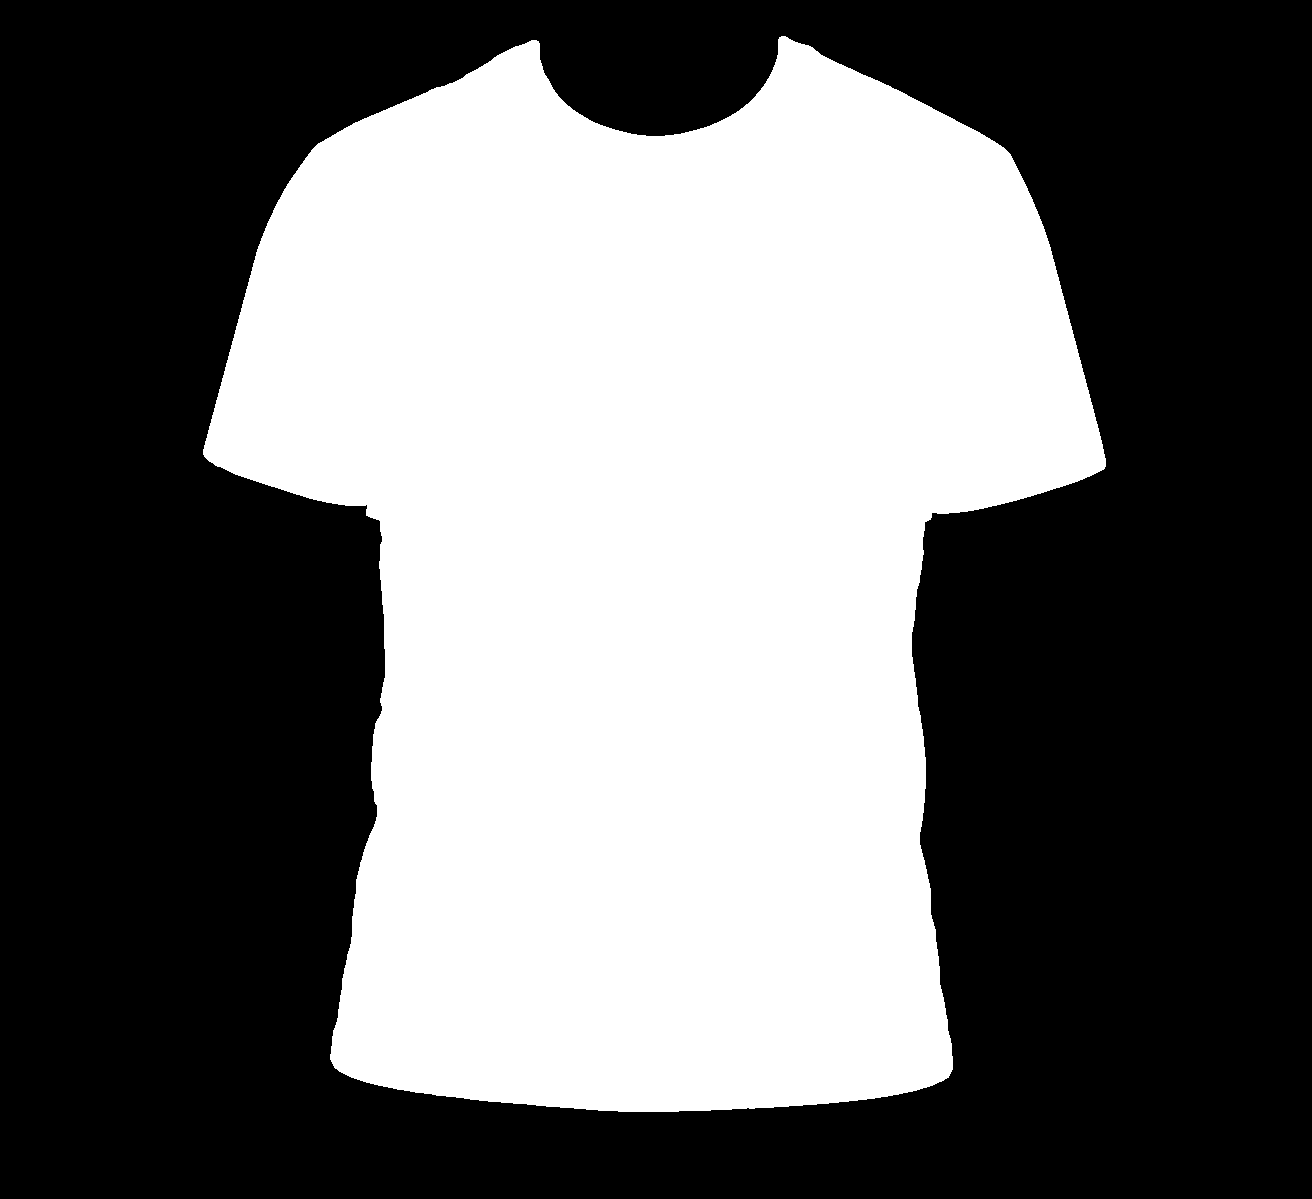
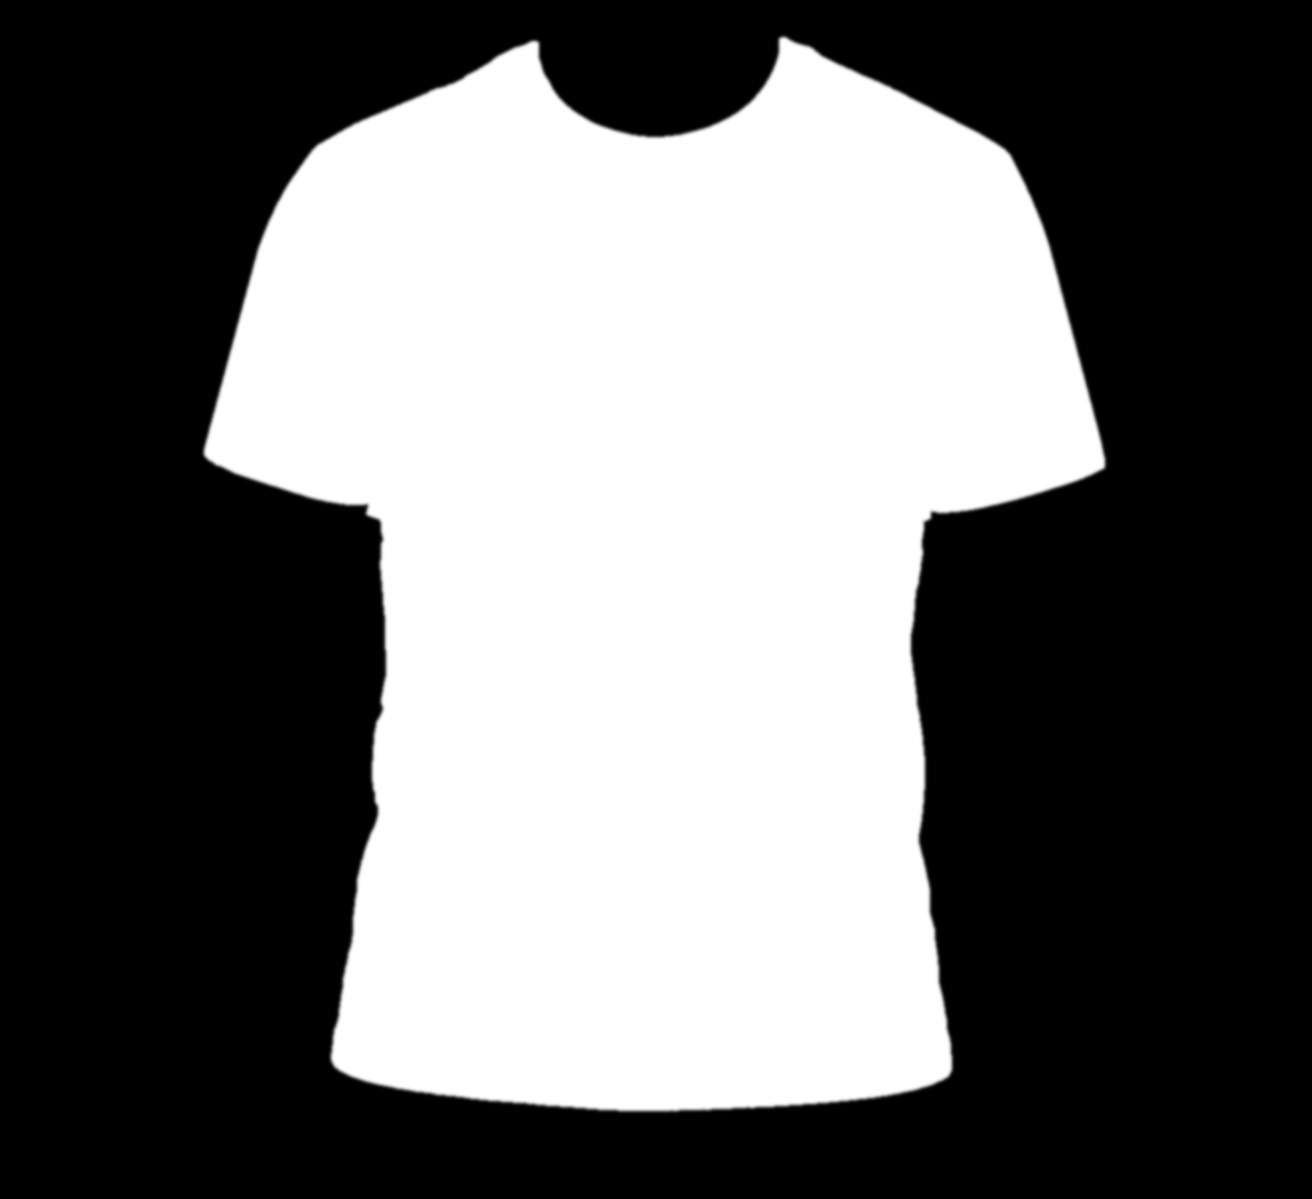
fix(mockups): bordes suaves de prenda y solo plantillas con modelo
La preparación conserva el antialias de la máscara y calcula sombreado y
desplazamiento solo con el interior de la prenda, extendiéndolos hacia el
borde: desaparecen los escalones, el perfil oscuro y el halo blanco al teñir.
Se eliminan las plantillas dibujadas por código (tee-flat-*) y su script.

diff --git a/backend/src/designfabric/core/imaging/mockup/prepare.py b/backend/src/designfabric/core/imaging/mockup/prepare.py
@@ -182,7 +182,9 @@ def _normalize_mask(mask: Image.Image | np.ndarray, size: tuple[int, int]) -> np
             mask_array = np.clip(mask_array, 0, 255).astype(np.uint8)
     if mask_array.shape != (size[1], size[0]):
         raise ValueError(f"La máscara debe medir {size[0]}×{size[1]} píxeles")
-    return np.where(mask_array > 0, 255, 0).astype(np.uint8)
+    # Se conserva el borde suave (antialias): binarizarlo deja escalones visibles y
+    # tiñe el anillo de piel/fondo que rodea la prenda.
+    return mask_array.astype(np.uint8)
 
 
 def _largest_component(mask: np.ndarray) -> np.ndarray:
@@ -196,8 +198,15 @@ def _largest_component(mask: np.ndarray) -> np.ndarray:
 
 def _derive_maps(gray: np.ndarray, mask: np.ndarray) -> tuple[np.ndarray, np.ndarray]:
     luminance = gray.astype(np.float32)
-    active = mask > 0
-    median = float(np.median(luminance[active]))
+    active = mask >= 128
+    if not np.any(active):
+        active = mask > 0
+    # Los píxeles del contorno mezclan tela con piel/fondo: los mapas se calculan
+    # solo con el interior y se extienden hacia el borde (convolución normalizada).
+    interior = cv2.erode(active.astype(np.uint8), np.ones((7, 7), np.uint8)) > 0
+    if not np.any(interior):
+        interior = active
+    median = float(np.median(luminance[interior]))
     if not math.isfinite(median) or median <= 0:
         median = 0.0
 
@@ -205,20 +214,38 @@ def _derive_maps(gray: np.ndarray, mask: np.ndarray) -> tuple[np.ndarray, np.nda
     side = min(width, height)
     shading_sigma = max(0.8, side * 0.002)
     shading = luminance * (128.0 / median) if median > 0 else np.full_like(luminance, 128.0)
-    shading[~active] = 128.0
-    shading = _gaussian_blur(shading, shading_sigma)
+    shading = _fill_from_interior(shading, interior, shading_sigma, max(4.0, side * 0.004))
     shading_median = float(np.median(shading[active]))
     if shading_median > 0:
         shading[active] *= 128.0 / shading_median
-    shading[~active] = 128.0
+    shading[mask == 0] = 128.0
 
     displacement_sigma = max(1.0, side * 0.01)
-    displacement = _gaussian_blur(luminance, displacement_sigma)
+    displacement = _fill_from_interior(luminance, interior, displacement_sigma, displacement_sigma)
     displacement[active] += 128.0 - float(np.mean(displacement[active]))
     displacement[~active] = 128.0
     for _ in range(2):
         displacement[active] += 128.0 - float(np.mean(displacement[active]))
     return _to_uint8(shading), _to_uint8(displacement)
+
+
+def _fill_from_interior(
+    values: np.ndarray, interior: np.ndarray, sigma: float, reach_sigma: float
+) -> np.ndarray:
+    """Suaviza `values` usando solo `interior` y extrapola hacia el contorno.
+
+    Dentro del interior equivale a un blur de `sigma`; fuera, cada píxel toma la
+    media ponderada del interior cercano (alcance ~3·`reach_sigma`).
+    """
+    weight = interior.astype(np.float32)
+    smooth = _gaussian_blur(values * weight, sigma) / np.maximum(
+        _gaussian_blur(weight, sigma), 1e-6
+    )
+    near = _gaussian_blur(values * weight, reach_sigma) / np.maximum(
+        _gaussian_blur(weight, reach_sigma), 1e-6
+    )
+    covered = _gaussian_blur(weight, sigma) > 0.5
+    return np.where(interior | covered, smooth, near).astype(np.float32)
 
 
 def _gaussian_blur(image: np.ndarray, sigma: float) -> np.ndarray:

diff --git a/backend/scripts/make_model_mockups.py b/backend/scripts/make_model_mockups.py
@@ -15,7 +15,6 @@ from __future__ import annotations
 
 import argparse
 import os
-import sys
 from dataclasses import dataclass
 from io import BytesIO
 from pathlib import Path
@@ -24,11 +23,17 @@ import cv2
 import numpy as np
 from PIL import Image
 
-sys.path.insert(0, str(Path(__file__).resolve().parent))
-from make_default_mockups import GARMENT_COLORS  # noqa: E402
+from designfabric.core.imaging.mockup.prepare import save_template
 
-from designfabric.core.imaging.mockup.prepare import save_template  # noqa: E402
-
+GARMENT_COLORS = {
+    "blanco": "#FFFFFF",
+    "negro": "#1A1A1A",
+    "gris": "#9A9A9A",
+    "azul marino": "#1F2A44",
+    "rojo": "#B3202A",
+    "verde": "#2F5D3A",
+    "arena": "#D8C8A8",
+}
 OUT_DIR = Path(__file__).resolve().parents[1] / "data" / "mockup_templates"
 IMAGE_MODEL = "openai/gpt-image-2.5-sunburst"
 PROMPT = (
@@ -140,7 +145,10 @@ def shirt_mask(rgb: np.ndarray, spec: ModelSpec) -> np.ndarray:
         m = cv2.morphologyEx(m, cv2.MORPH_CLOSE, cv2.getStructuringElement(cv2.MORPH_ELLIPSE, (15, 15)))
         m[sat > 45] = 0
 
-    return cv2.GaussianBlur(m, (0, 0), 1.0)
+    # Cubre el margen blanco de 1–2 px que deja la segmentación; si quedara fuera,
+    # se vería como un hilo claro al teñir.
+    m = cv2.dilate(m, cv2.getStructuringElement(cv2.MORPH_ELLIPSE, (5, 5)))
+    return cv2.GaussianBlur(m, (0, 0), 1.6)
 
 
 def build(spec: ModelSpec, photo: Image.Image) -> None:

diff --git a/backend/tests/core/imaging/mockup/test_prepare.py b/backend/tests/core/imaging/mockup/test_prepare.py
@@ -6,7 +6,7 @@ from pathlib import Path
 
 import numpy as np
 import pytest
-from PIL import Image
+from PIL import Image, ImageFilter
 
 from designfabric.core.imaging.background_removal_strategies import RemovalModelPaths
 from designfabric.core.imaging.mockup.prepare import prepare_template, save_template
@@ -122,3 +122,21 @@ def test_rechaza_mascara_de_tamano_incorrecto() -> None:
 
     with pytest.raises(ValueError, match="debe medir"):
         prepare_template(_foto_sintetica(), wrong_size, model_paths=RemovalModelPaths())
+
+
+def test_conserva_borde_suave_y_el_contorno_no_oscurece_el_sombreado() -> None:
+    """Regresión: la máscara se binarizaba (bordes dentados) y el sombreado del
+    contorno mezclaba la piel/fondo vecinos, dibujando un perfil oscuro al teñir."""
+    photo = np.full((120, 120, 3), 60, np.uint8)  # «piel» oscura alrededor
+    photo[30:90, 30:90] = 235  # tela blanca
+    mask = np.zeros((120, 120), np.uint8)
+    mask[30:90, 30:90] = 255
+    mask = np.asarray(Image.fromarray(mask).filter(ImageFilter.GaussianBlur(1.5)))
+
+    prepared = prepare_template(Image.fromarray(photo), mask)
+
+    out_mask = np.asarray(prepared.garment_mask)
+    assert ((out_mask > 0) & (out_mask < 255)).any()
+    shading = np.asarray(prepared.shading).astype(int)
+    rim = (out_mask >= 128) & (out_mask < 250)
+    assert abs(int(np.median(shading[rim])) - 128) <= 4

diff --git a/backend/tests/core/imaging/mockup/test_bundled_templates.py b/backend/tests/core/imaging/mockup/test_bundled_templates.py
@@ -16,7 +16,7 @@ TEMPLATE_DIRS = sorted(p for p in BUNDLED.iterdir() if (p / "template.json").is_
 
 
 def test_bundled_templates_exist() -> None:
-    assert {p.name for p in TEMPLATE_DIRS} >= {"tee-flat-front", "tee-flat-back"}
+    assert {p.name for p in TEMPLATE_DIRS} >= {"tee-model-man", "tee-model-woman"}
 
 
 @pytest.mark.parametrize("template_dir", TEMPLATE_DIRS, ids=lambda p: p.name)

diff --git a/CHANGELOG.md b/CHANGELOG.md
@@ -10,7 +10,8 @@ and this project adheres to [Semantic Versioning](https://semver.org/spec/v2.0.0
 ### Added
 
 - Herramientas «Mockups» y «Plantillas de mockup»: prepara y guarda plantillas de prendas revisables (foto base, máscara, sombreado, desplazamiento y geometría de impresión) y compón diseños sobre ellas con color, tamaño y desplazamiento configurables. El preview y la exportación comparten un render determinista en CPU; la exportación se procesa como job CPU y genera PNG @300 DPI.
-- Cuatro plantillas de mockup incluidas con la app (`backend/data/mockup_templates/`): camiseta lisa frente y espalda, dibujadas por código, y camiseta con modelo hombre y mujer, a partir de fotos generadas con IA. Cada una trae 7 colores de prenda y escala en cm calibrada. Se regeneran con `backend/scripts/make_default_mockups.py` y `make_model_mockups.py`.
+- Dos plantillas de mockup incluidas con la app (`backend/data/mockup_templates/`): camiseta con modelo hombre y mujer, a partir de fotos generadas con IA. Cada una trae 7 colores de prenda y escala en cm calibrada. Se regeneran con `backend/scripts/make_model_mockups.py`.
+- Mockups: bordes de la prenda suaves y sin perfil oscuro ni halo al teñir (la preparación conserva el antialias de la máscara y calcula el sombreado solo con el interior de la prenda).
 
 ## [0.3.0] - 2026-10-10
 
